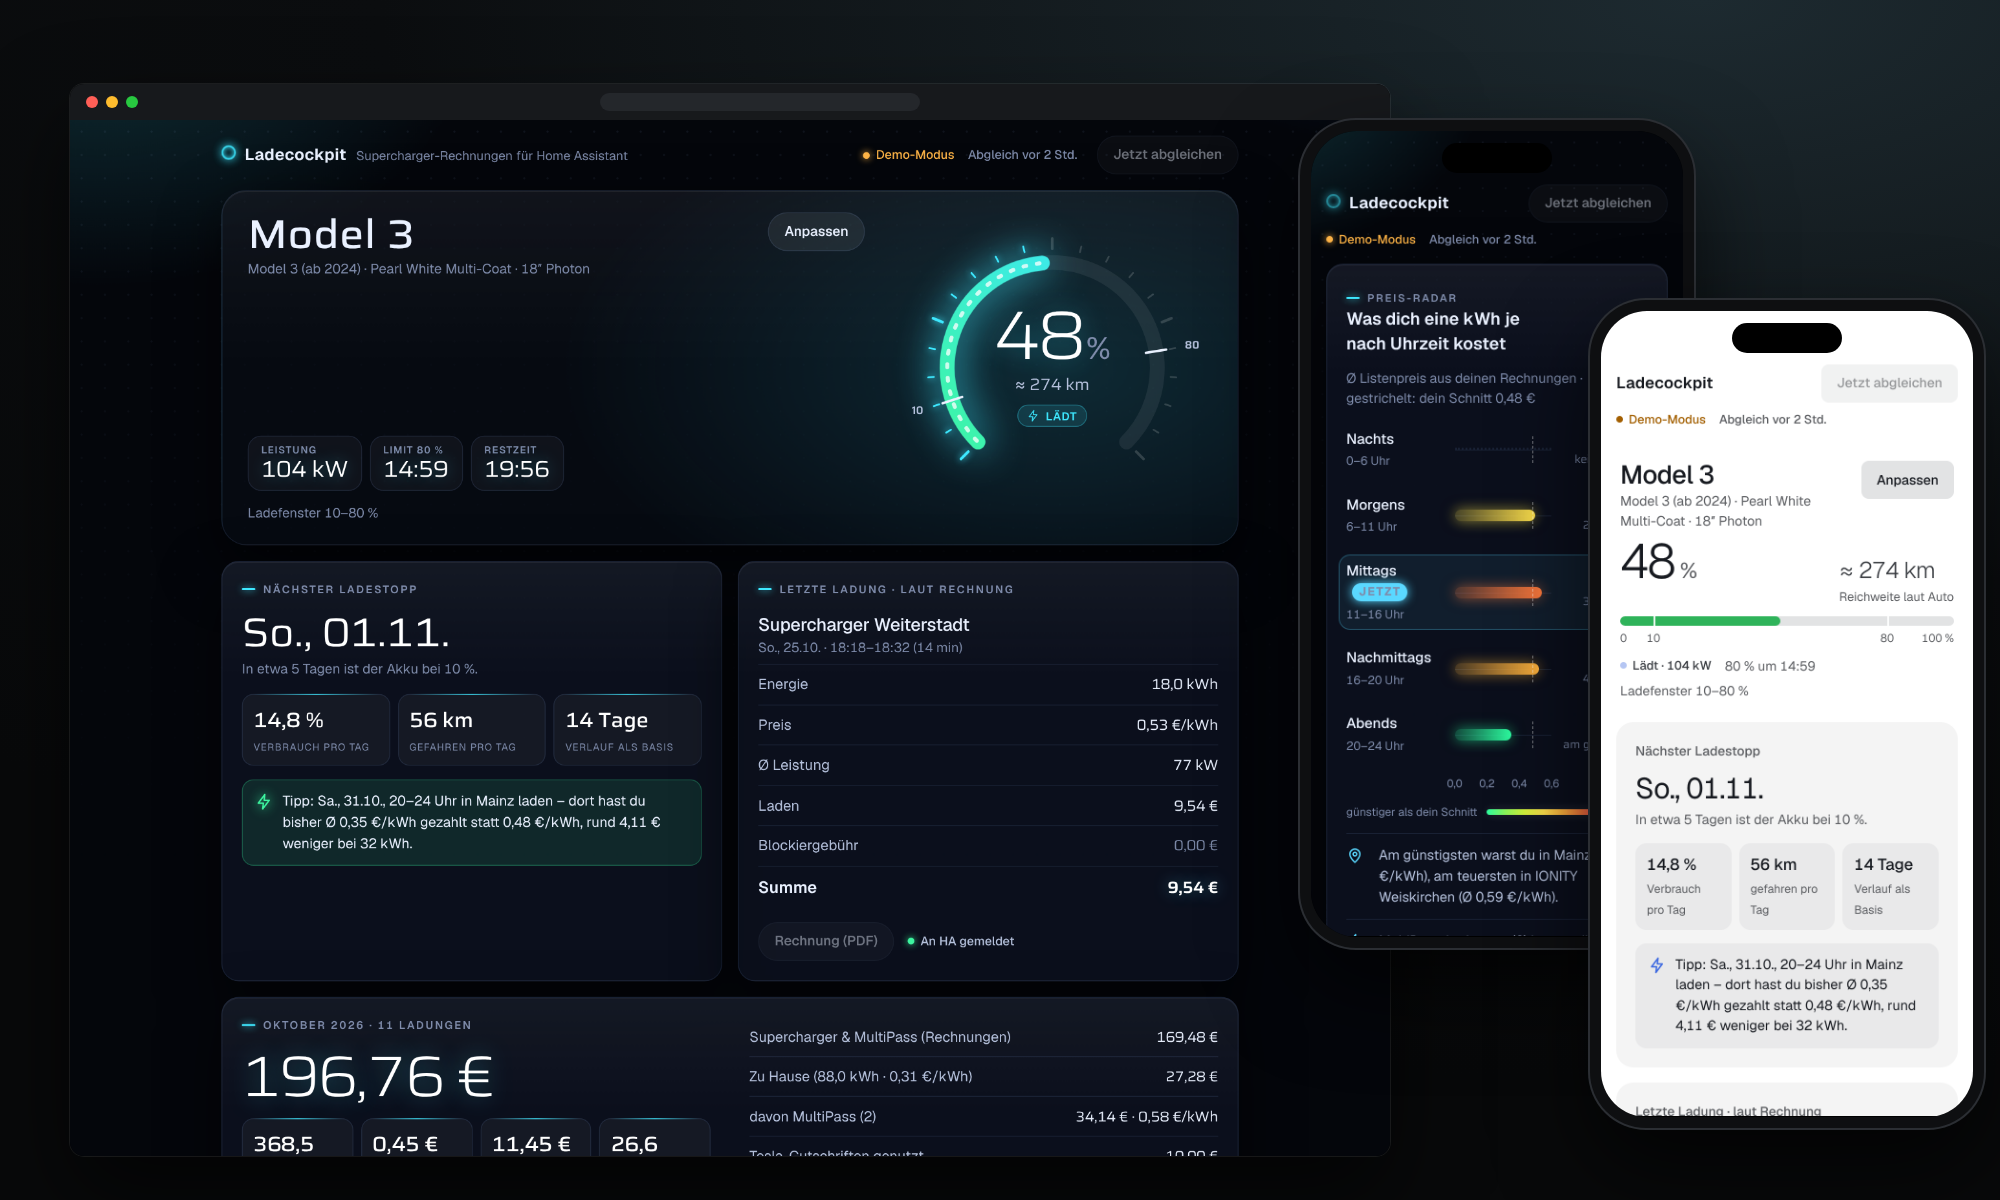
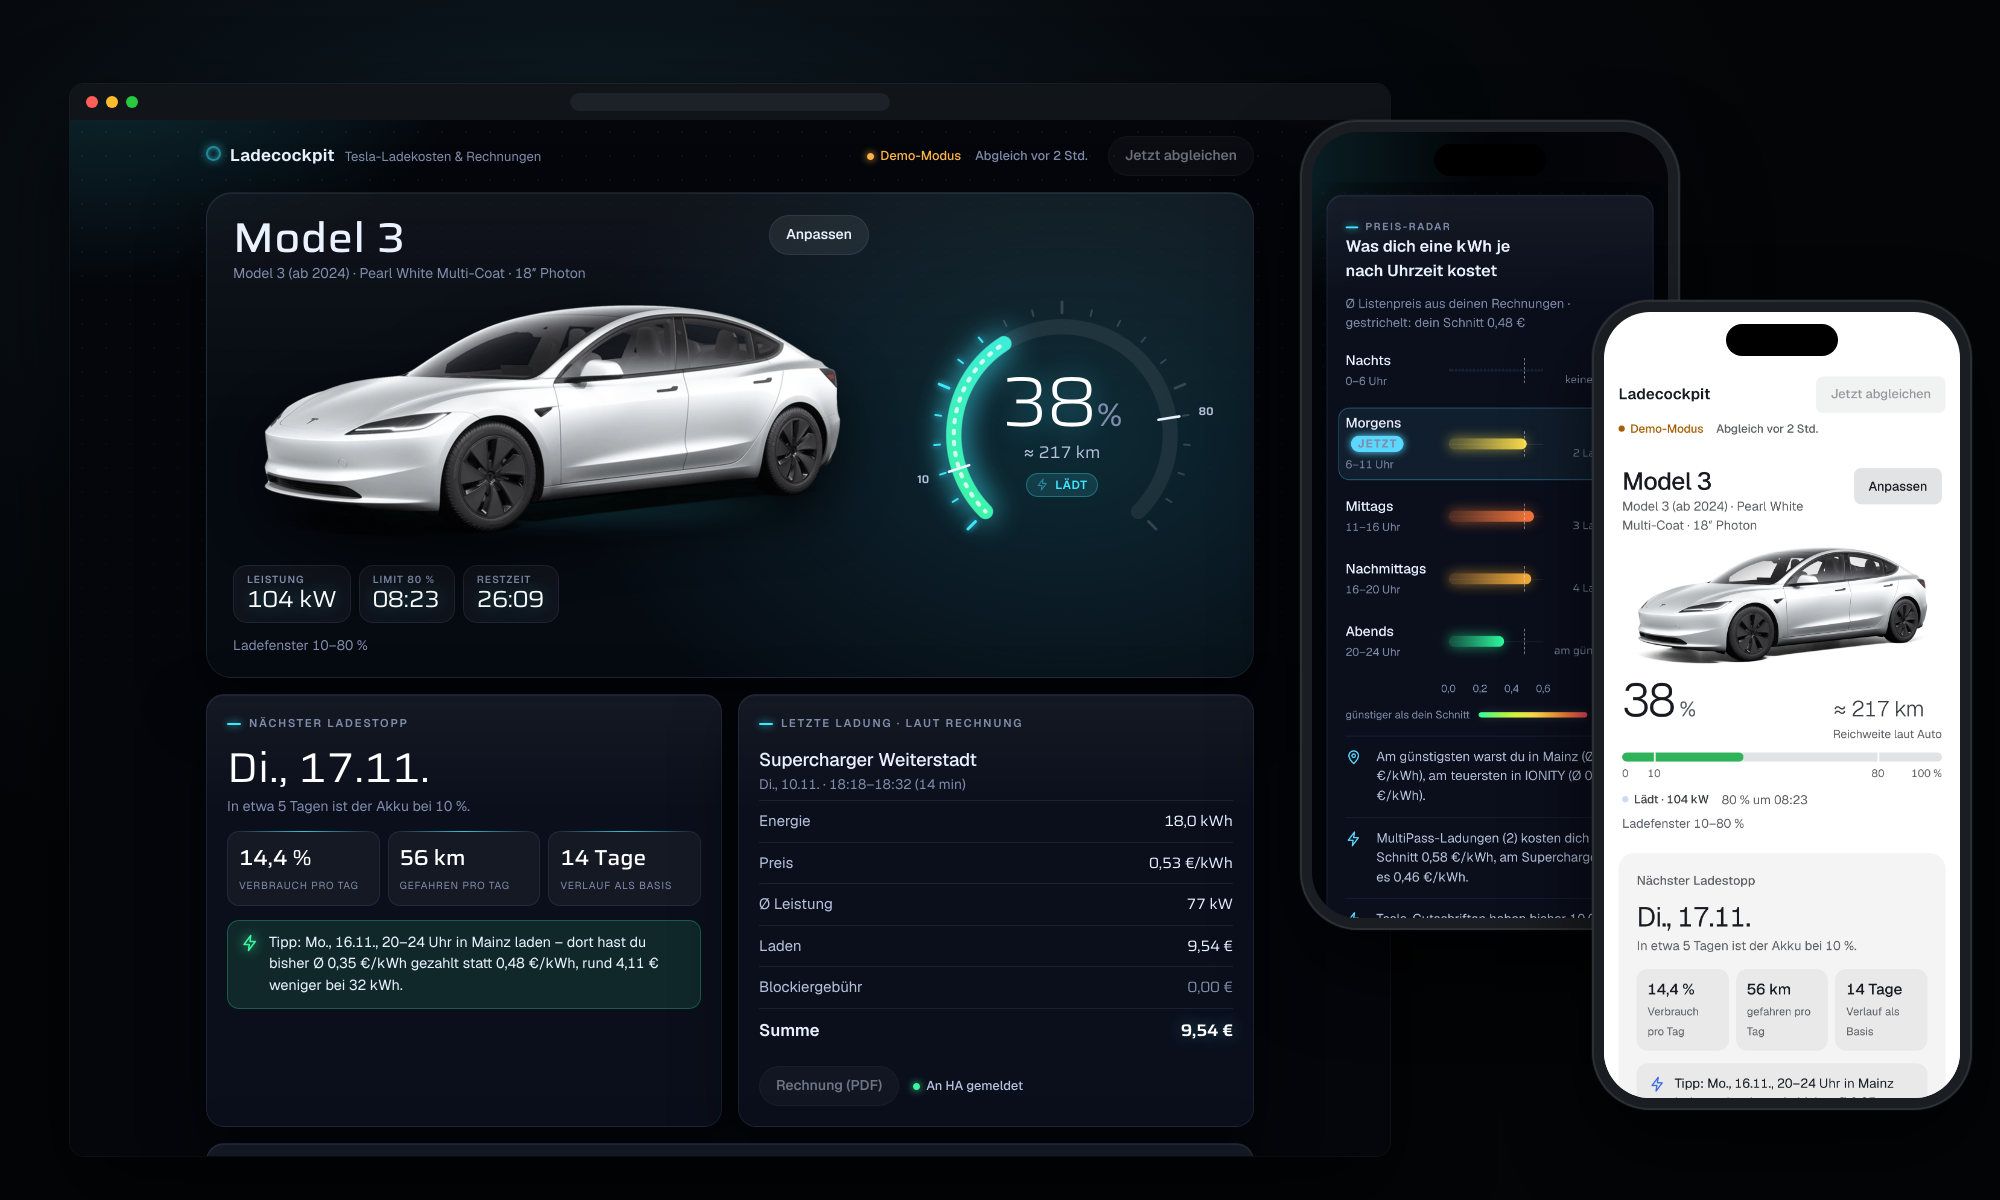
docs: new screenshots with the car picture and the current tagline

diff --git a/README.de.md b/README.de.md
@@ -4,7 +4,7 @@
 
 [English](README.md)
 
-![Ladecockpit mit Demo-Daten, während das Auto lädt: am Desktop im dynamischen Design mit leuchtendem Akku-Ring, Leistung, Uhrzeit und Countdown bis zum Ladelimit, nächstem Ladestopp und letzter Rechnung; auf einem Handy das Preis-Radar des dynamischen Designs mit dem aktuellen Zeitfenster; auf einem zweiten Handy das klassische Design hell](docs/screenshot-de.png)
+![Ladecockpit mit Demo-Daten, während das Auto lädt: am Desktop im dynamischen Design mit Bild des Autos, leuchtendem Akku-Ring, Leistung, Uhrzeit und Countdown bis zum Ladelimit, nächstem Ladestopp und letzter Rechnung; auf einem Handy das Preis-Radar des dynamischen Designs mit dem aktuellen Zeitfenster; auf einem zweiten Handy das klassische Design hell](docs/screenshot-de.png)
 
 Ladecockpit holt deine echten Laderechnungen direkt über die Tesla Fleet API (abgerechnete kWh, Preis pro kWh, Blockiergebühr, Standort und PDF) und speichert sie lokal. Du kannst die Web-App allein nutzen oder optional Home Assistant für Live-Fahrzeugdaten, Sensoren und Automationen anbinden.
 

diff --git a/README.md b/README.md
@@ -4,7 +4,7 @@
 
 [Deutsch](README.de.md)
 
-![Ladecockpit with demo data while the car charges: on the desktop in the dynamic look with the glowing battery ring, power, finish time and countdown, next charging stop and last invoice; on a phone the price radar of the dynamic look with the time slot of right now; on a second phone the classic look in light mode](docs/screenshot.png)
+![Ladecockpit with demo data while the car charges: on the desktop in the dynamic look with the picture of the car, the glowing battery ring, power, finish time and countdown, next charging stop and last invoice; on a phone the price radar of the dynamic look with the time slot of right now; on a second phone the classic look in light mode](docs/screenshot.png)
 
 Ladecockpit fetches your actual charging invoices from the Tesla Fleet API (billed kWh, price per kWh, idle fees, site and PDF) and stores them locally. Use the web app on its own, or optionally connect Home Assistant for live vehicle data, sensors and automations.
 
